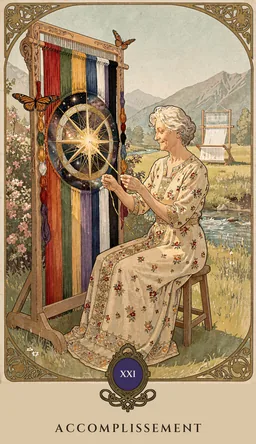
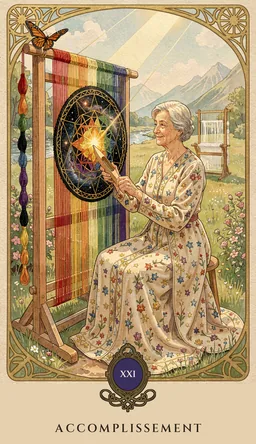
XXI · Accomplissement : retour à l'ancienne version validée (la navette reprend sa place)
- master restauré depuis les archives ; la refonte v30 est archivée à son tour
- textes alignés sur l'ancienne image : « avec une navette en bois » et le filet
  « navette » (au lieu de « doigts »)
- image de l'app et miniature régénérées
pytest : 770 passed, 11 skipped

diff --git a/tests/test_lectures.py b/tests/test_lectures.py
@@ -62,7 +62,7 @@ SYMBOLES_REQUIS = {
          "lumière", "palmier", "citronnier", "fleurs", "chat"],
     20: ["statue", "visage", "pierre", "terre", "femme", "robe",
          "frangipanier", "lumière", "herbe", "mousse"],
-    21: ["tisserande", "métier", "mandala", "étoiles", "galaxies", "doigts",
+    21: ["tisserande", "métier", "mandala", "étoiles", "galaxies", "navette",
          "rayon de soleil", "centre", "arc-en-ciel", "papillon", "vierge"],
     22: ["sommet", "silhouette", "nuages", "rais de lumière", "rivière",
          "forêts", "herbes"],
